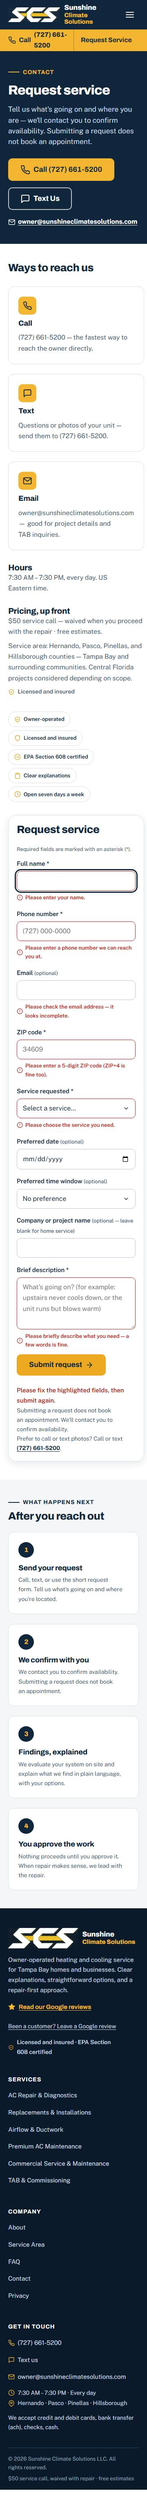
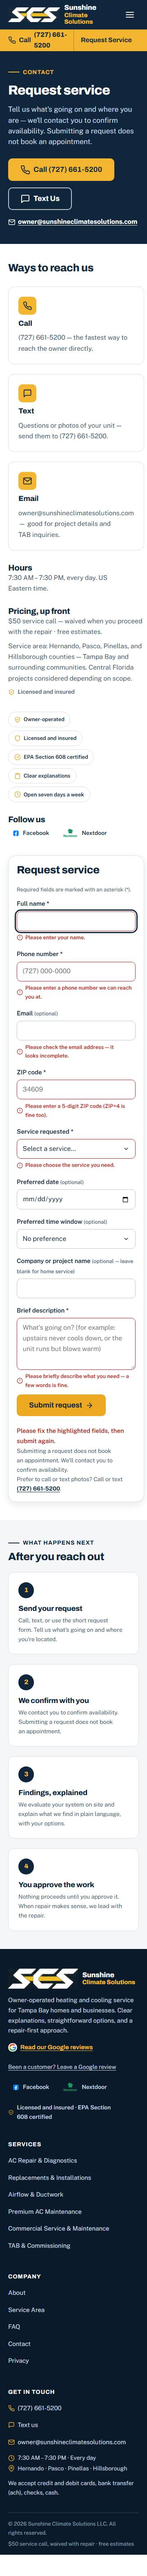
Add social profiles (Facebook, Nextdoor) and official Google review presentation

Changed region(s): [[0.0, 0.0, 1.0, 0.9959], [0.825, 0.4357, 0.8861, 0.498], [0.8861, 0.0622, 0.9167, 0.0934]]

diff --git a/src/styles/global.css b/src/styles/global.css
@@ -1384,6 +1384,95 @@ body.nav-open {
   color: var(--c-gold);
 }
 
+/* ── Social links (footer, contact, leave-review) ─────────────── */
+
+.social-links {
+  list-style: none;
+  padding: 0;
+  margin: 0;
+  display: flex;
+  flex-wrap: wrap;
+  gap: var(--sp-3xs) var(--sp-sm);
+  align-items: center;
+}
+
+.social-links a {
+  display: inline-flex;
+  align-items: center;
+  gap: 0.4rem;
+  min-height: 2.75rem;
+  padding: 0.25rem 0.5rem;
+  font-weight: 600;
+  font-size: var(--text-sm);
+  text-decoration: none;
+  color: inherit;
+  border-radius: var(--r-sm);
+}
+
+.social-links a:hover {
+  color: var(--c-gold-strong);
+}
+
+.social-links .icon {
+  flex: none;
+}
+
+/* Owner-supplied social brand logos — height-balanced, unmodified. */
+.social-logo {
+  flex: none;
+  height: 1.35rem;
+  width: auto;
+}
+
+/* Supplied Google Reviews lockup (official brand colors, unmodified) —
+   shown above the prominent CTA on /leave-review/. */
+.google-reviews-badge {
+  width: min(11rem, 60vw);
+  height: auto;
+}
+
+.on-dark .social-links a {
+  color: var(--c-on-navy-soft);
+}
+
+.on-dark .social-links a:hover {
+  color: var(--c-gold);
+}
+
+/* Official Google "G" mark (public/brand/google-g.svg) on a white tile so it
+   stays legible on navy and gold surfaces. Asset used unmodified. */
+.google-g {
+  flex: none;
+  width: 1.35rem;
+  height: 1.35rem;
+  background: #fff;
+  border-radius: 50%;
+  padding: 2px;
+  box-sizing: border-box;
+}
+
+/* Leave-review page: make the Google review CTA particularly prominent.
+   Responsive: never overflows narrow viewports (360px). */
+.review-cta {
+  min-height: 3.75rem;
+  max-width: 100%;
+  padding-inline: clamp(1rem, 4vw, 2rem);
+  font-size: var(--text-lg);
+  text-align: center;
+}
+
+.review-social {
+  margin-top: var(--sp-xl);
+  display: grid;
+  gap: var(--sp-2xs);
+  justify-items: center;
+  text-align: center;
+}
+
+.review-social .social-links {
+  justify-content: center;
+}
+
 /* ── Photographic proof cards ────────────────────────────────── */
 
 .photo-grid {

diff --git a/src/config/business.ts b/src/config/business.ts
@@ -49,6 +49,14 @@ export const business = {
   reviewsSubmissionUrl:
     'https://g.page/r/CTXPJRFuZT-tEAE/review?utm_source=gbp&utm_medium=reviews&utm_campaign=qr',
 
+  // Verified social profiles (owner-confirmed URLs). Rendered by
+  // SocialLinks.astro (footer, contact, leave-review) and included in the
+  // HVACBusiness sameAs structured data — never hard-code these elsewhere.
+  social: {
+    facebook: 'https://www.facebook.com/profile.php?id=61594915980759',
+    nextdoor: 'https://nextdoor.com/page/sunshine-climate-solutions/',
+  },
+
   serviceArea: {
     counties: ['Hernando County', 'Pasco County', 'Pinellas County', 'Hillsborough County'],
     summary: 'Tampa Bay and surrounding communities.',

diff --git a/src/content/site/leave-review.md b/src/content/site/leave-review.md
@@ -17,7 +17,7 @@ hero:
     share your experience.
 
 reviewCta:
-  buttonLabel: Leave a Google Review
+  buttonLabel: Review Us on Google
   qrNote: >-
     Point your phone camera at the code, or tap the button — either way it takes
     about a minute.
